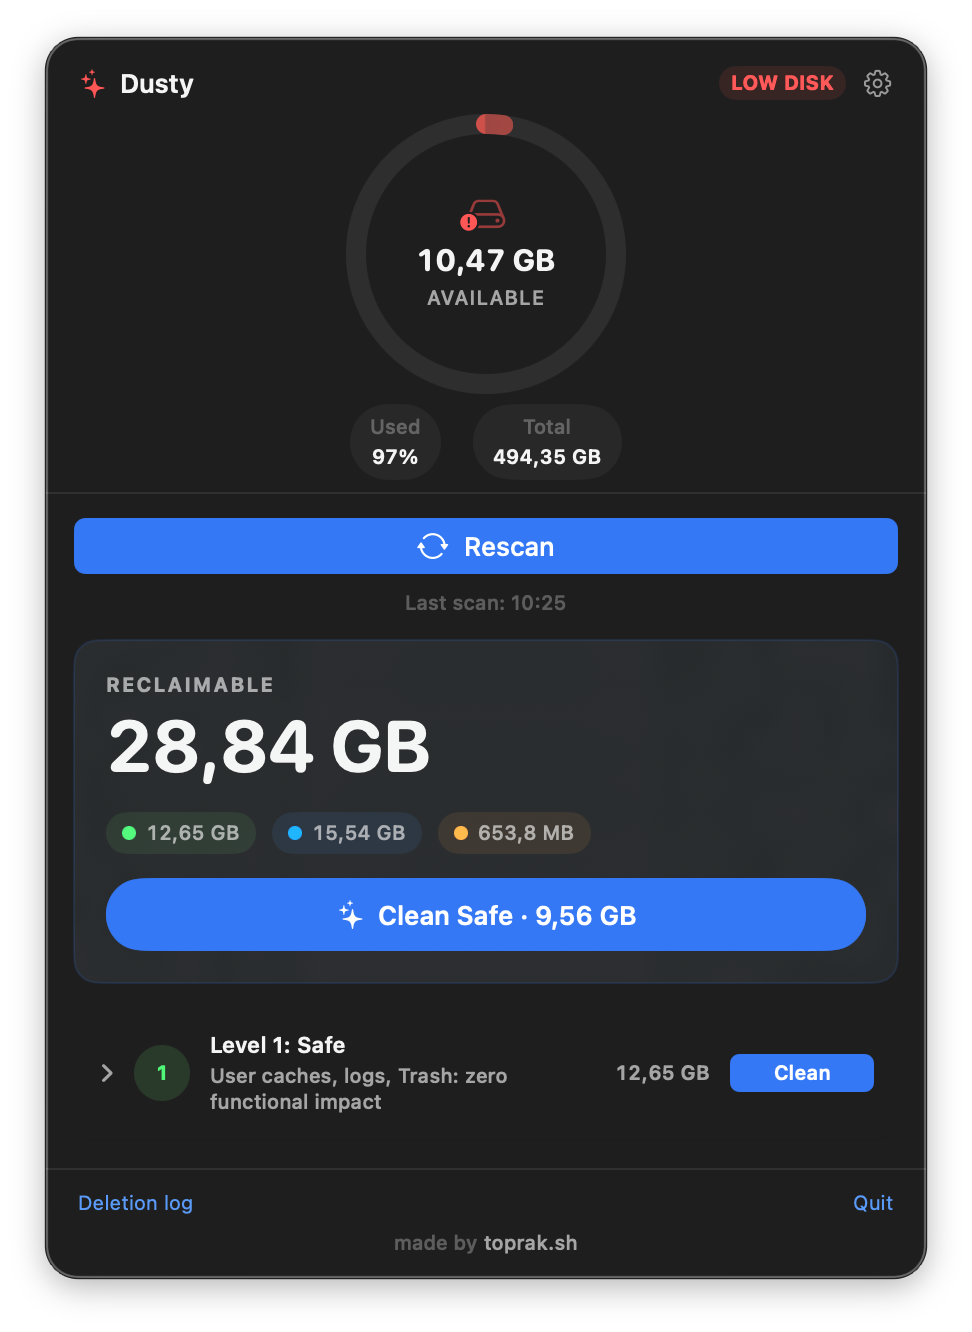
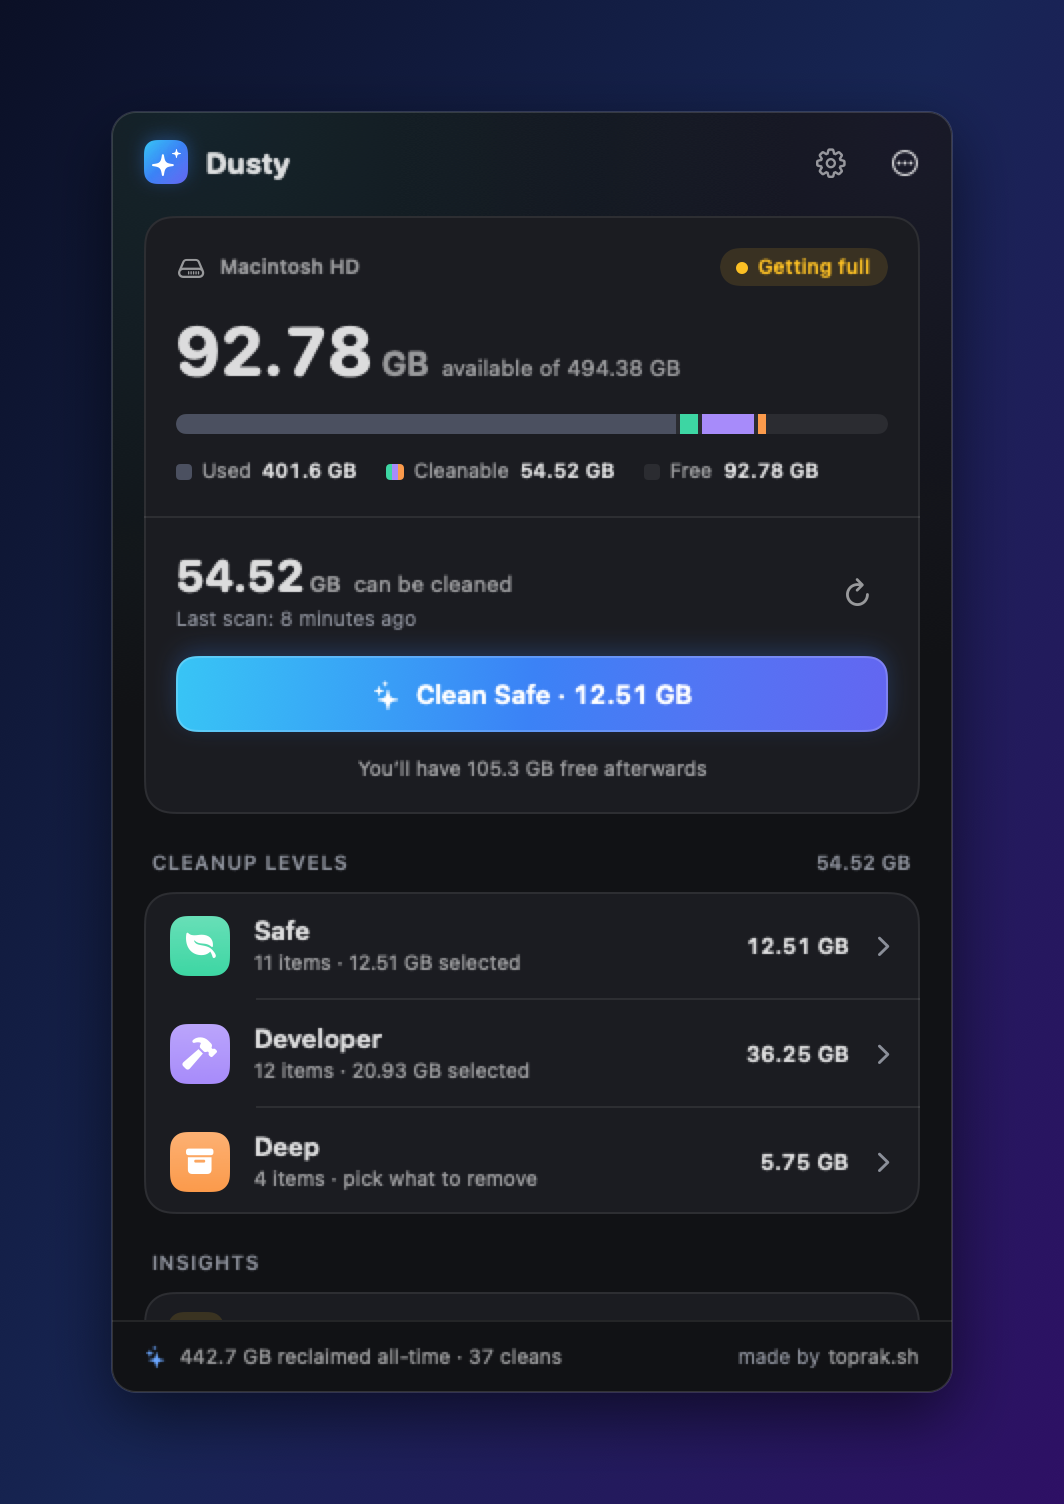
Show the redesigned panel in the README
The hero image is now a render of the new panel (home, a level, the
confirmation sheet, Settings) and panel.png is the new home screen. The
feature notes describe the level screens, the confirmation sheet, the undo
ring, insights that open their target, and the keyboard shortcuts.

Claude-Session: https://claude.ai/code/session_01SzRtZtru7xrvsroZ7XHSjm

diff --git a/Dusty/Dusty/Views/HomeView.swift b/Dusty/Dusty/Views/HomeView.swift
@@ -236,9 +236,10 @@ private struct LevelRow: View {
         } else if isScanning {
             Spinner(size: 12)
         } else {
-            Text(verbatim: "—")
-                .font(.subheadline)
+            Image(systemName: "minus")
+                .font(.system(size: 11, weight: .semibold))
                 .foregroundStyle(DustyTheme.faint)
+                .accessibilityHidden(true)
         }
     }
 }

diff --git a/README.md b/README.md
@@ -10,9 +10,9 @@
 [![macOS 13+](https://img.shields.io/badge/macOS-13%2B-000000?logo=apple)](https://www.apple.com/macos/)
 [![License: MIT](https://img.shields.io/github/license/yagcioglutoprak/dusty)](LICENSE)
 
-<img src="docs/screenshots/demo.gif?v=3" width="480" alt="Dusty's first-run welcome, then a scan revealing reclaimable disk space across Safe, Developer, and Deep levels">
+<img src="docs/screenshots/overview.png" alt="Dusty's panel: the home screen with a storage bar and a one-tap Safe clean, the Developer level item by item, the confirmation sheet, and Settings">
 
-<sub>One scan, and the gigabytes hiding in caches and developer junk are laid out by size.</sub>
+<sub>One scan, and the gigabytes hiding in caches and developer junk are laid out by size, level by level.</sub>
 <br>
 <sub>If Dusty saves you space, a GitHub star helps more Mac users find a safer cleaner.</sub>
 <br>
@@ -89,11 +89,16 @@ target before you commit to anything. It is quick, too: a full three-level scan
 of a working dev machine (M3, ~18 GB of junk across 866 paths) takes about 5
 seconds.
 
-Every target folds open into its individual items, each with a checkbox, so you
-can keep one specific cache out of a clean without skipping the whole target.
+Every level opens into its own screen: targets largest first, each folding
+open into its individual items with a checkbox, so you can keep one specific
+cache out of a clean without skipping the whole target. A filter narrows long
+lists, and a bar at the bottom always says what a clean would take. Before
+anything is deleted, a confirmation sheet shows the free space before and
+after and every path it will touch.
 
-Every clean can be undone for a few seconds afterwards, at every level. Items
-pass through the Trash first, so a misclick costs you nothing. The panel keeps a
+Every clean can be undone for a few seconds afterwards, at every level: the
+receipt carries an Undo button (or ⌘Z) whose ring empties as the window closes.
+Items pass through the Trash first, so a misclick costs you nothing. The panel keeps a
 running total of what Dusty has reclaimed on your Mac since you installed it.
 
 The Deep level also looks where cleaners never do: inside your projects. A
@@ -107,8 +112,12 @@ and the clean, its artifacts are refused at delete time.
 
 After a scan, the panel points out what a person would spot: 12 GB of
 DerivedData with no Xcode installed anymore, a cache nothing has written to
-since spring, a disk on course to fill up in three weeks. Insights only point;
-they never select or delete anything.
+since spring, a disk on course to fill up in three weeks. Click an insight and
+the panel opens the level it is about with that target highlighted. Insights
+only point; they never select or delete anything.
+
+The panel is keyboard friendly too: ⌘R rescans, ⌘, opens Settings, Esc goes
+back, ⌘Z undoes the last clean, and ⌘Q quits.
 
 Prefer it hands-off? Automatic cleaning is opt-in (off by default) and comes in
 two flavors: on a schedule (daily, weekly, or every two weeks), or the moment
